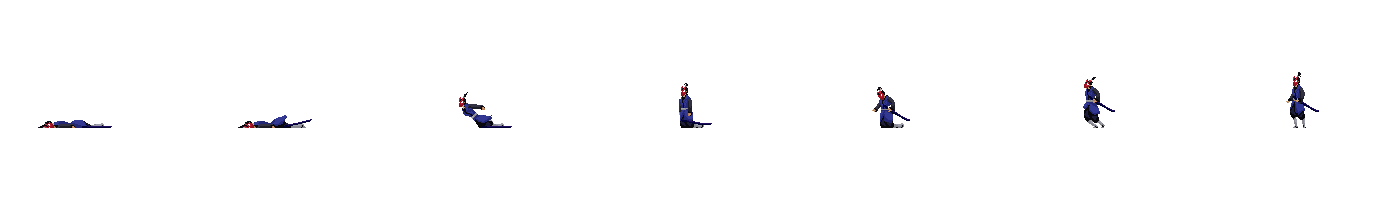
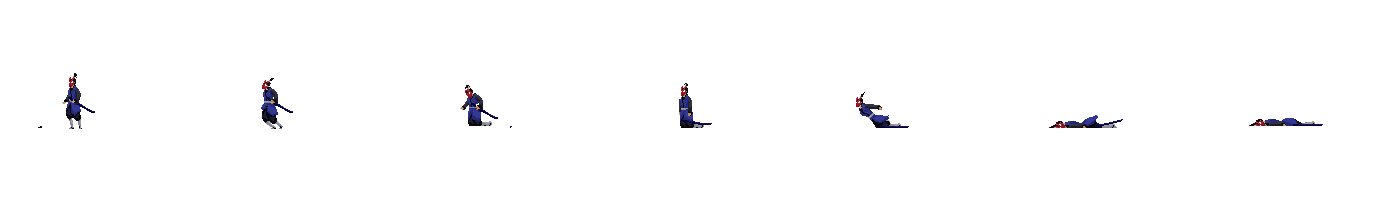
successfully implemented taking hits and death animation for player and enemy. also limited the switch case function for player and enemy to not be able to move after its death

diff --git a/index.js b/index.js
@@ -225,9 +225,9 @@ function animate() {
     player.isAttacking &&
     player.frameCurrent === 4
   ) {
+    enemy.takeHit();
     player.isAttacking = false;
-    console.log("player attacking");
-    enemy.health -= 10;
+    // console.log("player attacking");
     document.querySelector("#enemyHealth").style.width = enemy.health + "%";
   }
 
@@ -244,9 +244,9 @@ function animate() {
     enemy.isAttacking &&
     enemy.frameCurrent === 2
   ) {
+    player.takeHit();
     enemy.isAttacking = false;
-    console.log("enemy attacking");
-    player.health -= 10;
+    // console.log("enemy attacking");
     document.querySelector("#playerHealth").style.width = player.health + "%";
   }
 
@@ -265,36 +265,43 @@ animate();
 
 window.addEventListener("keydown", (event) => {
   // player keys
-  switch (event.key) {
-    case "d":
-      keys.d.pressed = true;
-      player.lastkey = "d";
-      break;
-    case "a":
-      keys.a.pressed = true;
-      player.lastkey = "a";
-      break;
-    case "w":
-      player.velocity.y = -20;
-      break;
-    case " ":
-      player.attack();
-      break;
-    // enemy keys
-    case "ArrowRight":
-      keys.ArrowRight.pressed = true;
-      enemy.lastkey = "ArrowRight";
-      break;
-    case "ArrowLeft":
-      keys.ArrowLeft.pressed = true;
-      enemy.lastkey = "ArrowLeft";
-      break;
-    case "ArrowUp":
-      enemy.velocity.y = -20;
-      break;
-    case "ArrowDown":
-      enemy.attack();
-      break;
+  if (!player.dead) {
+    switch (event.key) {
+      case "d":
+        keys.d.pressed = true;
+        player.lastkey = "d";
+        break;
+      case "a":
+        keys.a.pressed = true;
+        player.lastkey = "a";
+        break;
+      case "w":
+        player.velocity.y = -20;
+        break;
+      case " ":
+        player.attack();
+        break;
+    }
+  }
+
+  // enemy keys
+  if (!enemy.dead) {
+    switch (event.key) {
+      case "ArrowRight":
+        keys.ArrowRight.pressed = true;
+        enemy.lastkey = "ArrowRight";
+        break;
+      case "ArrowLeft":
+        keys.ArrowLeft.pressed = true;
+        enemy.lastkey = "ArrowLeft";
+        break;
+      case "ArrowUp":
+        enemy.velocity.y = -20;
+        break;
+      case "ArrowDown":
+        enemy.attack();
+        break;
+    }
   }
 });
 

diff --git a/js/classes.js b/js/classes.js
@@ -83,6 +83,7 @@ class Fighter extends Sprite {
     this.frameElapsed = 0;
     this.frameHold = 6;
     this.sprites = sprites;
+    this.dead = false;
 
     for (const sprite in this.sprites) {
       sprites[sprite].image = new Image();
@@ -94,7 +95,10 @@ class Fighter extends Sprite {
 
   update() {
     this.draw();
-    this.animateFrames();
+
+    if (!this.dead) {
+      this.animateFrames();
+    }
 
     // attack box
     this.attackBox.position.x = this.position.x + this.attackBox.offset.x;
@@ -120,10 +124,34 @@ class Fighter extends Sprite {
     this.isAttacking = true;
   }
 
+  takeHit() {
+    this.health -= 10;
+
+    if (this.health <= 0) {
+      this.switchSprite("death");
+    } else {
+      this.switchSprite("takeHit");
+    }
+  }
+
   switchSprite(sprite) {
+    if (this.image === this.sprites.death.image) {
+      if (this.frameCurrent === this.sprites.death.frameMax - 1) {
+        this.dead = true;
+      }
+      return;
+    }
+
+    // overriding all other animations with the attack animation
     if (this.image === this.sprites.attack1.image && this.frameCurrent < this.sprites.attack1.frameMax - 1) {
       return;
     }
+
+    // override when fighter gets hit
+    if (this.image === this.sprites.takeHit.image && this.frameCurrent < this.sprites.takeHit.frameMax - 1) {
+      return;
+    }
+
     switch (sprite) {
       case "idle":
         if (this.image !== this.sprites.idle.image) {
@@ -157,6 +185,20 @@ class Fighter extends Sprite {
         if (this.image !== this.sprites.attack1.image) {
           this.image = this.sprites.attack1.image;
           this.frameMax = this.sprites.attack1.frameMax;
+          this.frameCurrent = 0;
+        }
+        break;
+      case "takeHit":
+        if (this.image !== this.sprites.takeHit.image) {
+          this.image = this.sprites.takeHit.image;
+          this.frameMax = this.sprites.takeHit.frameMax;
+          this.frameCurrent = 0;
+        }
+        break;
+      case "death":
+        if (this.image !== this.sprites.death.image) {
+          this.image = this.sprites.death.image;
+          this.frameMax = this.sprites.death.frameMax;
           this.frameCurrent = 0;
         }
         break;
